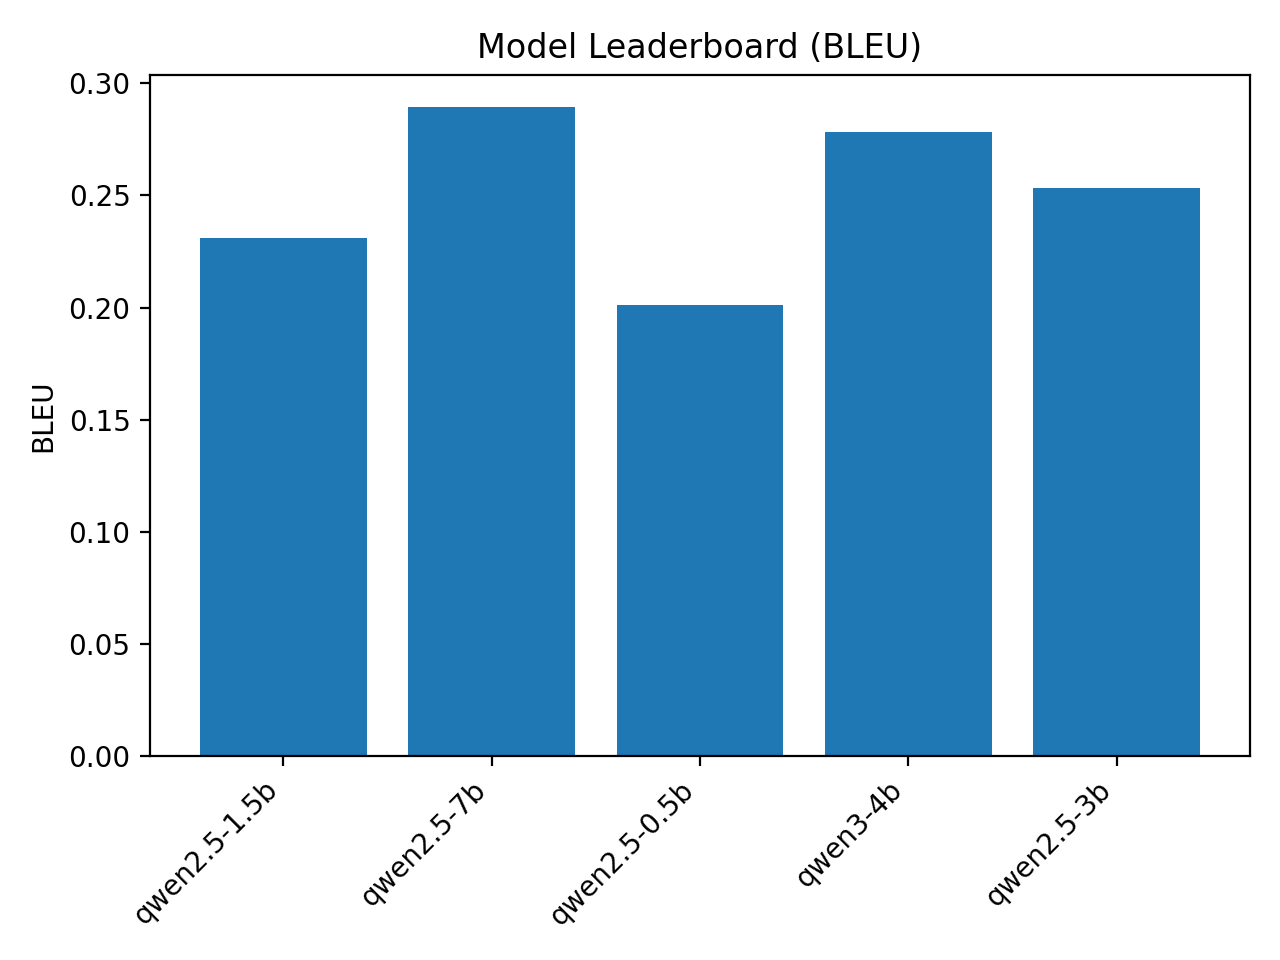
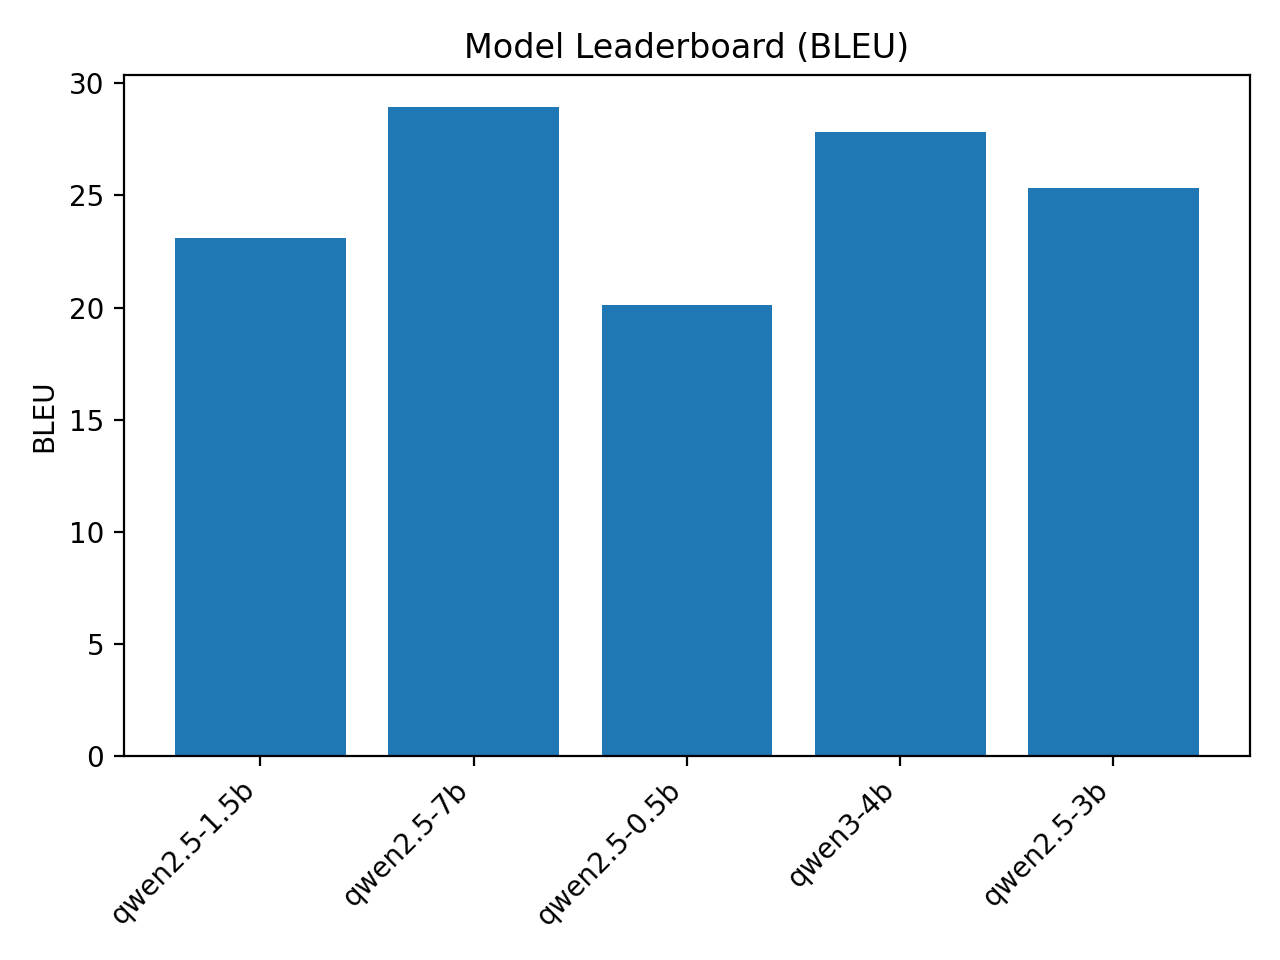
modified:   readme.md 	modified:   result/fig_leaderboard_bleu.png 	modified:   result/metrics_promptcblue.csv

diff --git a/readme.md b/readme.md
@@ -62,11 +62,11 @@ eval.py            # 评测脚本
 
 | model        | rouge-1 | rouge-2 | rouge-l | avg_rouge |   bleu | avg_chars |
 | :----------- | ------: | ------: | ------: | --------: | -----: | --------: |
-| qwen2.5-0.5b |  0.4921 |  0.3214 |  0.3103 |    0.3746 | 0.2014 |     365.3 |
-| qwen2.5-1.5b |  0.4966 |  0.3186 |  0.3801 |    0.3985 | 0.2312 |     164.4 |
-| qwen2.5-3b   |  0.4643 |  0.2633 |   0.246 |    0.3245 | 0.2533 |     485.4 |
-| qwen3-4b     |  0.4261 |  0.2307 |  0.2778 |    0.3115 | 0.2785 |     276.6 |
-| qwen2.5-7b   |  0.4915 |  0.2919 |  0.3625 |     0.382 | 0.2894 |     161.7 |
+| qwen2.5-0.5b |  0.4921 |  0.3214 |  0.3103 |    0.3746 | 20.14 |     365.3 |
+| qwen2.5-1.5b |  0.4966 |  0.3186 |  0.3801 |    0.3985 | 23.12 |     164.4 |
+| qwen2.5-3b   |  0.4643 |  0.2633 |   0.246 |    0.3245 | 25.33 |     485.4 |
+| qwen3-4b     |  0.4261 |  0.2307 |  0.2778 |    0.3115 | 27.85 |     276.6 |
+| qwen2.5-7b   |  0.4915 |  0.2919 |  0.3625 |     0.382 | 28.94 |     161.7 |
 
 
 ## 输出与结果
